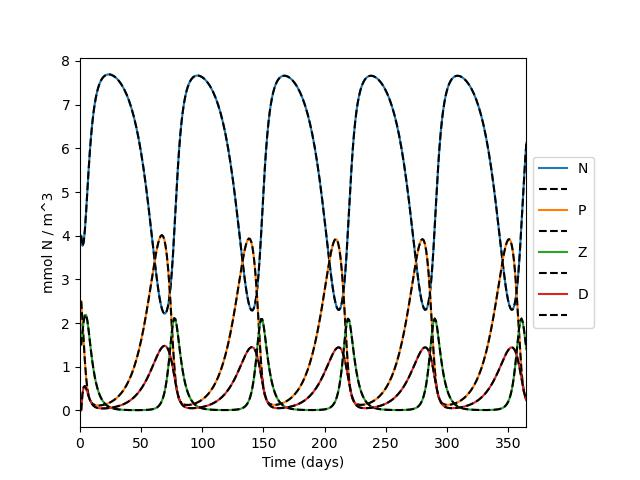
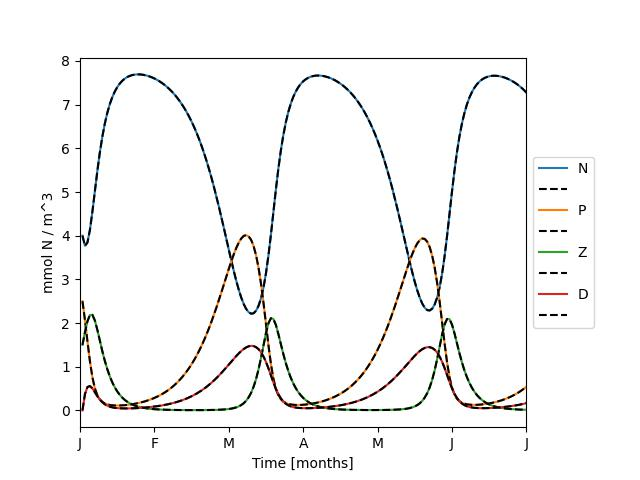
trying scipy solve_ivp integration

diff --git a/functions/bgc_rate_eqns.py b/functions/bgc_rate_eqns.py
@@ -34,9 +34,11 @@ def bgc_rate_eqns(iter, base_element, parameters, tracers):
         elif tracers[key].type == "inorganic":
             tracers[key].inorg(iter, base_element, environmental_parameters["base_temp"], water_column_parameters["z"], water_column_parameters["dz"], mixed_layer_depth, surface_PAR, temperature, salinity, wind, tracers)
         elif tracers[key].type == "phytoplankton":
-            fI, irrad = tracers[key].phyto(iter, base_element, environmental_parameters["base_temp"], water_column_parameters["z"], water_column_parameters["dz"], mixed_layer_depth, surface_PAR, temperature, tracers)
+            tracers[key].phyto(iter, base_element, environmental_parameters["base_temp"], water_column_parameters["z"], water_column_parameters["dz"], mixed_layer_depth, surface_PAR, temperature, tracers)
+            # fI, irrad = tracers[key].phyto(iter, base_element, environmental_parameters["base_temp"], water_column_parameters["z"], water_column_parameters["dz"], mixed_layer_depth, surface_PAR, temperature, tracers)
         elif tracers[key].type == "zooplankton":
-            rsp = tracers[key].zoo(iter, base_element, environmental_parameters["base_temp"], temperature, tracers)
+            tracers[key].zoo(iter, base_element, environmental_parameters["base_temp"], temperature, tracers)
+            # rsp = tracers[key].zoo(iter, base_element, environmental_parameters["base_temp"], temperature, tracers)
         
     # Apply rates to tracer concentrations
     for key in tracers:
@@ -46,4 +48,48 @@ def bgc_rate_eqns(iter, base_element, parameters, tracers):
     for key in tracers:
         tracers[key].conc[...,iter+1] = np.maximum(1E-20*np.ones_like(tracers[key].conc[...,iter+1]),tracers[key].conc[...,iter+1])
         
-    return fI, irrad, rsp
+    # return fI, irrad, rsp
+
+
+def bgc_rate_eqns_solveivp(time, base_element, parameters, tracers):
+    
+    # Extract model paramters
+    environmental_parameters = parameters["environment"]
+    simulation_parameters = parameters["simulation"]
+    water_column_parameters = parameters["water_column"]
+    water_column_parameters = coordinate_system(parameters["water_column"])
+
+    # Seasonal cycling for temperature, salinity, radiation, and mixed layer depth
+    temperature = seasonal_cycling.get_temperature(simulation_parameters["time"][iter], environmental_parameters["winter_temp"], environmental_parameters["summer_temp"])
+    # surface_PAR = seasonal_cycling.get_sunlight(simulation_parameters["time"][iter], environmental_parameters["winter_sun"], environmental_parameters["summer_sun"])
+    surface_PAR = seasonal_cycling.get_irrad(simulation_parameters["time"][iter], environmental_parameters["winter_sun"], environmental_parameters["summer_sun"])
+    mixed_layer_depth = seasonal_cycling.get_mixed_layer_depth(simulation_parameters["time"][iter], environmental_parameters["winter_mld"], environmental_parameters["summer_mld"])
+    salinity = seasonal_cycling.get_salinity(simulation_parameters["time"][iter], environmental_parameters["winter_salt"], environmental_parameters["summer_salt"])
+    wind = seasonal_cycling.get_wind(simulation_parameters["time"][iter], environmental_parameters["winter_wind"], environmental_parameters["summer_wind"])
+
+    # Clear previous rates
+    for key in tracers:
+        tracers[key].d_dt = np.zeros_like(tracers[key].d_dt)
+    
+    # Calculate bgc rates
+    for key in tracers:
+        if tracers[key].type == "bacteria":
+            pass
+        elif tracers[key].type == "detritus":
+            tracers[key].detritus(iter, base_element, tracers)
+        elif tracers[key].type == "inorganic":
+            tracers[key].inorg(iter, base_element, environmental_parameters["base_temp"], water_column_parameters["z"], water_column_parameters["dz"], mixed_layer_depth, surface_PAR, temperature, salinity, wind, tracers)
+        elif tracers[key].type == "phytoplankton":
+            tracers[key].phyto(iter, base_element, environmental_parameters["base_temp"], water_column_parameters["z"], water_column_parameters["dz"], mixed_layer_depth, surface_PAR, temperature, tracers)
+            # fI, irrad = tracers[key].phyto(iter, base_element, environmental_parameters["base_temp"], water_column_parameters["z"], water_column_parameters["dz"], mixed_layer_depth, surface_PAR, temperature, tracers)
+        elif tracers[key].type == "zooplankton":
+            tracers[key].zoo(iter, base_element, environmental_parameters["base_temp"], temperature, tracers)
+            # rsp = tracers[key].zoo(iter, base_element, environmental_parameters["base_temp"], temperature, tracers)
+        
+    dt = []
+    for t in tracers:
+        for i in range(len(tracers[t].composition)):
+            dt.append(tracers[t].d_dt[i,...])
+    dt = np.array(dt,dtype=float)
+
+    return dt

diff --git a/setup/phytoplankton.py b/setup/phytoplankton.py
@@ -121,7 +121,7 @@ class Phytoplankton():
             avg_exu = np.average(self.exu[0:iter])
             x=1
 
-        return fI, irrad
+        # return fI, irrad
 
     def add_nutrient(self, nutrient, half_sat):
         "Nitrate-Phosphate (N-P) co-limitation"
@@ -175,7 +175,7 @@ class Phytoplankton():
                 element = tracers[nut].composition[0]
                 element_index = self.composition.index(element)
 
-                func = tracers[nut].conc[...,iter] / ( self.nutrient_limitation["half_sat"][i] + tracers[nut].conc[...,iter] )
+                func = tracers[nut].conc[...,iter] / ( self.nutrient_half_sat[i] + tracers[nut].conc[...,iter] )
                 fN[i] = np.maximum(1.E-20*np.ones_like(func), func)
         else:
             sys.exit("Nutrient limitation type not recognized. Check documentation and edit input file.")
@@ -430,15 +430,19 @@ class Phytoplankton():
         tp = np.array(tracers[p].conc[nutrient_index][iter])
 
         # Get carbon concentration
-        carbon_index = self.composition.index("c")
-        phytoc = self.conc[carbon_index][iter]
+        if "c" in self.composition:
+            carbon_index = self.composition.index("c")
+            phytoc = self.conc[carbon_index][iter]
+        else:
+            phytoc = np.ones_like(tp)
         
         # Locate index of chlorophyll constituent if present
         if "chl" in self.composition:   
             chl_index = self.composition.index("chl")
-            phytol = self.conc[chl_index][iter]
-            pl_pc = phytol / phytoc     # Chl:C ratio (used in light limitation)
+            phyto = self.conc[chl_index][iter]
+            pl_pc = phyto / phytoc     # Chl:C ratio (used in light limitation)
         else:
+            phyto = tp
             pl_pc = 1.
 
         # Calculate growth rate
@@ -451,7 +455,7 @@ class Phytoplankton():
         # if parameters["light_limitation"] == "variable":
         if parameters["light_limitation"] in ["monod", "platt", "smith"]:
             # k_PAR = light_attenuation(parameters, phytoc)
-            k_PAR = light_attenuation(parameters, phytol)
+            k_PAR = light_attenuation(parameters, phyto)
             irrad = irradiance(parameters["eps_PAR"], surface_PAR, coordinates, k_PAR)
             # fI = light_limitation(parameters, dz, irrad, k_PAR, mixed_layer_depth, surface_PAR, Vm)
             fI = light_limitation(parameters, dz, irrad, k_PAR, pl_pc, Vm)

diff --git a/setup/zooplankton.py b/setup/zooplankton.py
@@ -79,7 +79,7 @@ class Zooplankton():
             if reac["type"] == "mortality":     self.mortality(iter, reac["parameters"], c, p, ec, ep, ic, ip, tracers)
             if reac["type"] == "respiration":   rsp = self.respiration(iter, reac["parameters"], c, p, tracers)
 
-        return rsp
+        # return rsp
     
 
     def add_prey(self, prey):
@@ -200,7 +200,7 @@ class Zooplankton():
                     if tc[i] < (2 * parameters["half_sat_grazing"]):    slope[i] = parameters["max_grazing_rate"]/(2 * parameters["half_sat_grazing"])
                     else:   slope[i] = parameters["max_grazing_rate"]
             else:
-                if tc[i] < (2 * parameters["half_sat_grazing"]):    slope = parameters["max_grazing_rate"]/(2 * parameters["half_sat_grazing"])
+                if tc < (2 * parameters["half_sat_grazing"]):    slope = parameters["max_grazing_rate"]/(2 * parameters["half_sat_grazing"])
                 else:   slope = parameters["max_grazing_rate"]
             
             function = slope * tc * tp
@@ -236,7 +236,8 @@ class Zooplankton():
         # Update d_dt
         tracers[c].d_dt -= ec * tracers[c].conc_ratio * grazing_prey
         # tracers[p].d_dt += ep * tracers[p].conc_ratio * grazing_predator
-        tracers[p].d_dt += ec[:-1] * tracers[p].conc_ratio * grazing_predator   # fix this to be generic if it works
+        tracers[p].d_dt += ec * tracers[p].conc_ratio * grazing_predator   # fix this to be generic if it works
+        # tracers[p].d_dt += ec[:-1] * tracers[p].conc_ratio * grazing_predator   # fix this to be generic if it works
     
 
         # Update grazing rate dictionary

diff --git a/test_npz.py b/test_npz.py
@@ -1,0 +1,41 @@
+import os
+import sys
+import numpy as np
+import matplotlib.pyplot as plt
+
+# SETUP_PATH = Path()
+from setup.initialize import import_model
+from functions.bgc_rate_eqns import bgc_rate_eqns
+
+# ----------------------------------------------------------------------------------------------------
+# GLOBE model simulation
+# ----------------------------------------------------------------------------------------------------
+# Import and initialize model
+file = 'test_npz.yaml'
+file_path = os.getcwd() + '/' + file
+base_element, parameters, reactions, tracers = import_model(file_path)
+
+# Begin simulation
+for iter in range(0,parameters["simulation"]["iters"]-1):
+    bgc_rate_eqns(iter, base_element, parameters, tracers)
+
+fig, ax = plt.subplots()
+x = [0,2592000,5184000,7776000,10268000,12960000,15552000]
+marks = ['J','F','M','A','M','J','J']
+ax.plot(parameters["simulation"]["time"],tracers["no3"].conc[0,:])
+ax.plot(parameters["simulation"]["time"],tracers["phyto1"].conc[0,:])
+ax.plot(parameters["simulation"]["time"],tracers["zoo1"].conc[0,:])
+plt.ylabel("mmol N / m^3")
+plt.xlabel('Time [months]')
+plt.xlim([0,15552000])
+plt.xticks(x,marks)
+
+# Shrink current axis by 10%
+box = ax.get_position()
+ax.set_position([box.x0+0.04, box.y0+0.02, box.width * 0.9, box.height])
+
+# Put a legend to the right of the current axis
+ax.legend(loc='center left', bbox_to_anchor=(1, 0.5))
+plt.legend(['N','P','Z'],loc='center left', bbox_to_anchor=(1, 0.5))
+
+plt.savefig("test_npz.jpg")

diff --git a/test_np.py b/test_np.py
@@ -1,0 +1,40 @@
+import os
+import sys
+import numpy as np
+import matplotlib.pyplot as plt
+
+# SETUP_PATH = Path()
+from setup.initialize import import_model
+from functions.bgc_rate_eqns import bgc_rate_eqns
+
+# ----------------------------------------------------------------------------------------------------
+# GLOBE model simulation
+# ----------------------------------------------------------------------------------------------------
+# Import and initialize model
+file = 'test_np.yaml'
+file_path = os.getcwd() + '/' + file
+base_element, parameters, reactions, tracers = import_model(file_path)
+
+# Begin simulation
+for iter in range(0,parameters["simulation"]["iters"]-1):
+    bgc_rate_eqns(iter, base_element, parameters, tracers)
+
+fig, ax = plt.subplots()
+x = [0,2592000,5184000,7776000,10268000,12960000,15552000]
+marks = ['J','F','M','A','M','J','J']
+ax.plot(parameters["simulation"]["time"],tracers["no3"].conc[0,:])
+ax.plot(parameters["simulation"]["time"],tracers["phyto1"].conc[0,:])
+plt.ylabel("mmol N / m^3")
+plt.xlabel('Time [months]')
+plt.xlim([0,15552000])
+plt.xticks(x,marks)
+
+# Shrink current axis by 10%
+box = ax.get_position()
+ax.set_position([box.x0+0.04, box.y0+0.02, box.width * 0.9, box.height])
+
+# Put a legend to the right of the current axis
+ax.legend(loc='center left', bbox_to_anchor=(1, 0.5))
+plt.legend(['N','P'],loc='center left', bbox_to_anchor=(1, 0.5))
+
+plt.savefig("test_np.jpg")

diff --git a/test_globe.py b/test_globe.py
@@ -1,0 +1,27 @@
+import os
+import sys
+import numpy as np
+from setup.initialize import import_model
+from functions.other_functions import *
+from functions import rates
+from functions.bgc_rate_eqns import bgc_rate_eqns_solveivp
+from scipy.integrate import odeint, solve_ivp
+import matplotlib.pyplot as plt
+
+# Initialize Model
+file = 'bfm17.yaml'
+file_path = os.getcwd() + '/' + file
+base_element, parameters, reactions, tracers = import_model(file_path)
+
+# Write tracers as matrix
+c0 = []
+for t in tracers:
+    for i in range(len(tracers[t].composition)):
+        c0.append(tracers[t].conc[i,...,0])
+c0=np.array(c0,dtype=float)
+
+# Scipy Integration
+t_span = [0,86400*365*2]
+solution = solve_ivp(bgc_rate_eqns_solveivp, t_span, base_element, parameters, tracers, method='RK23')
+
+x=0

diff --git a/test_npzd.py b/test_npzd.py
@@ -86,7 +86,8 @@ x = np.arange(1, NUM_STEPS + 1, 1)
 # ----------------------------------------------------------------------------------------------------
 fig, ax = plt.subplots()
 
-
+months = [0,30,60,90,120,150,180]
+marks = ['J','F','M','A','M','J','J']
 ax.plot(x,tracers["no3"].conc[0,:-1])
 ax.plot(x,N,'--k')
 ax.plot(x,tracers["phyto1"].conc[0,:-1])
@@ -98,7 +99,10 @@ ax.plot(x,D,'--k')
 
 plt.ylabel("mmol N / m^3")
 plt.xlabel("Time (days)")
-plt.xlim([0,365])
+plt.xlabel("Time [months]")
+plt.xlim([0,180])
+plt.xticks(months,marks)
+# plt.xlim([0,365])
 
 # Shrink current axis by 10%
 box = ax.get_position()

diff --git a/globe.py b/globe.py
@@ -5,7 +5,7 @@ from setup.initialize import import_model
 from functions.other_functions import *
 from functions import rates
 from functions.bgc_rate_eqns import bgc_rate_eqns
-from scipy.integrate import odeint, solve_ivp
+# from scipy.integrate import odeint, solve_ivp
 import matplotlib.pyplot as plt
 
 # ----------------------------------------------------------------------------------------------------
